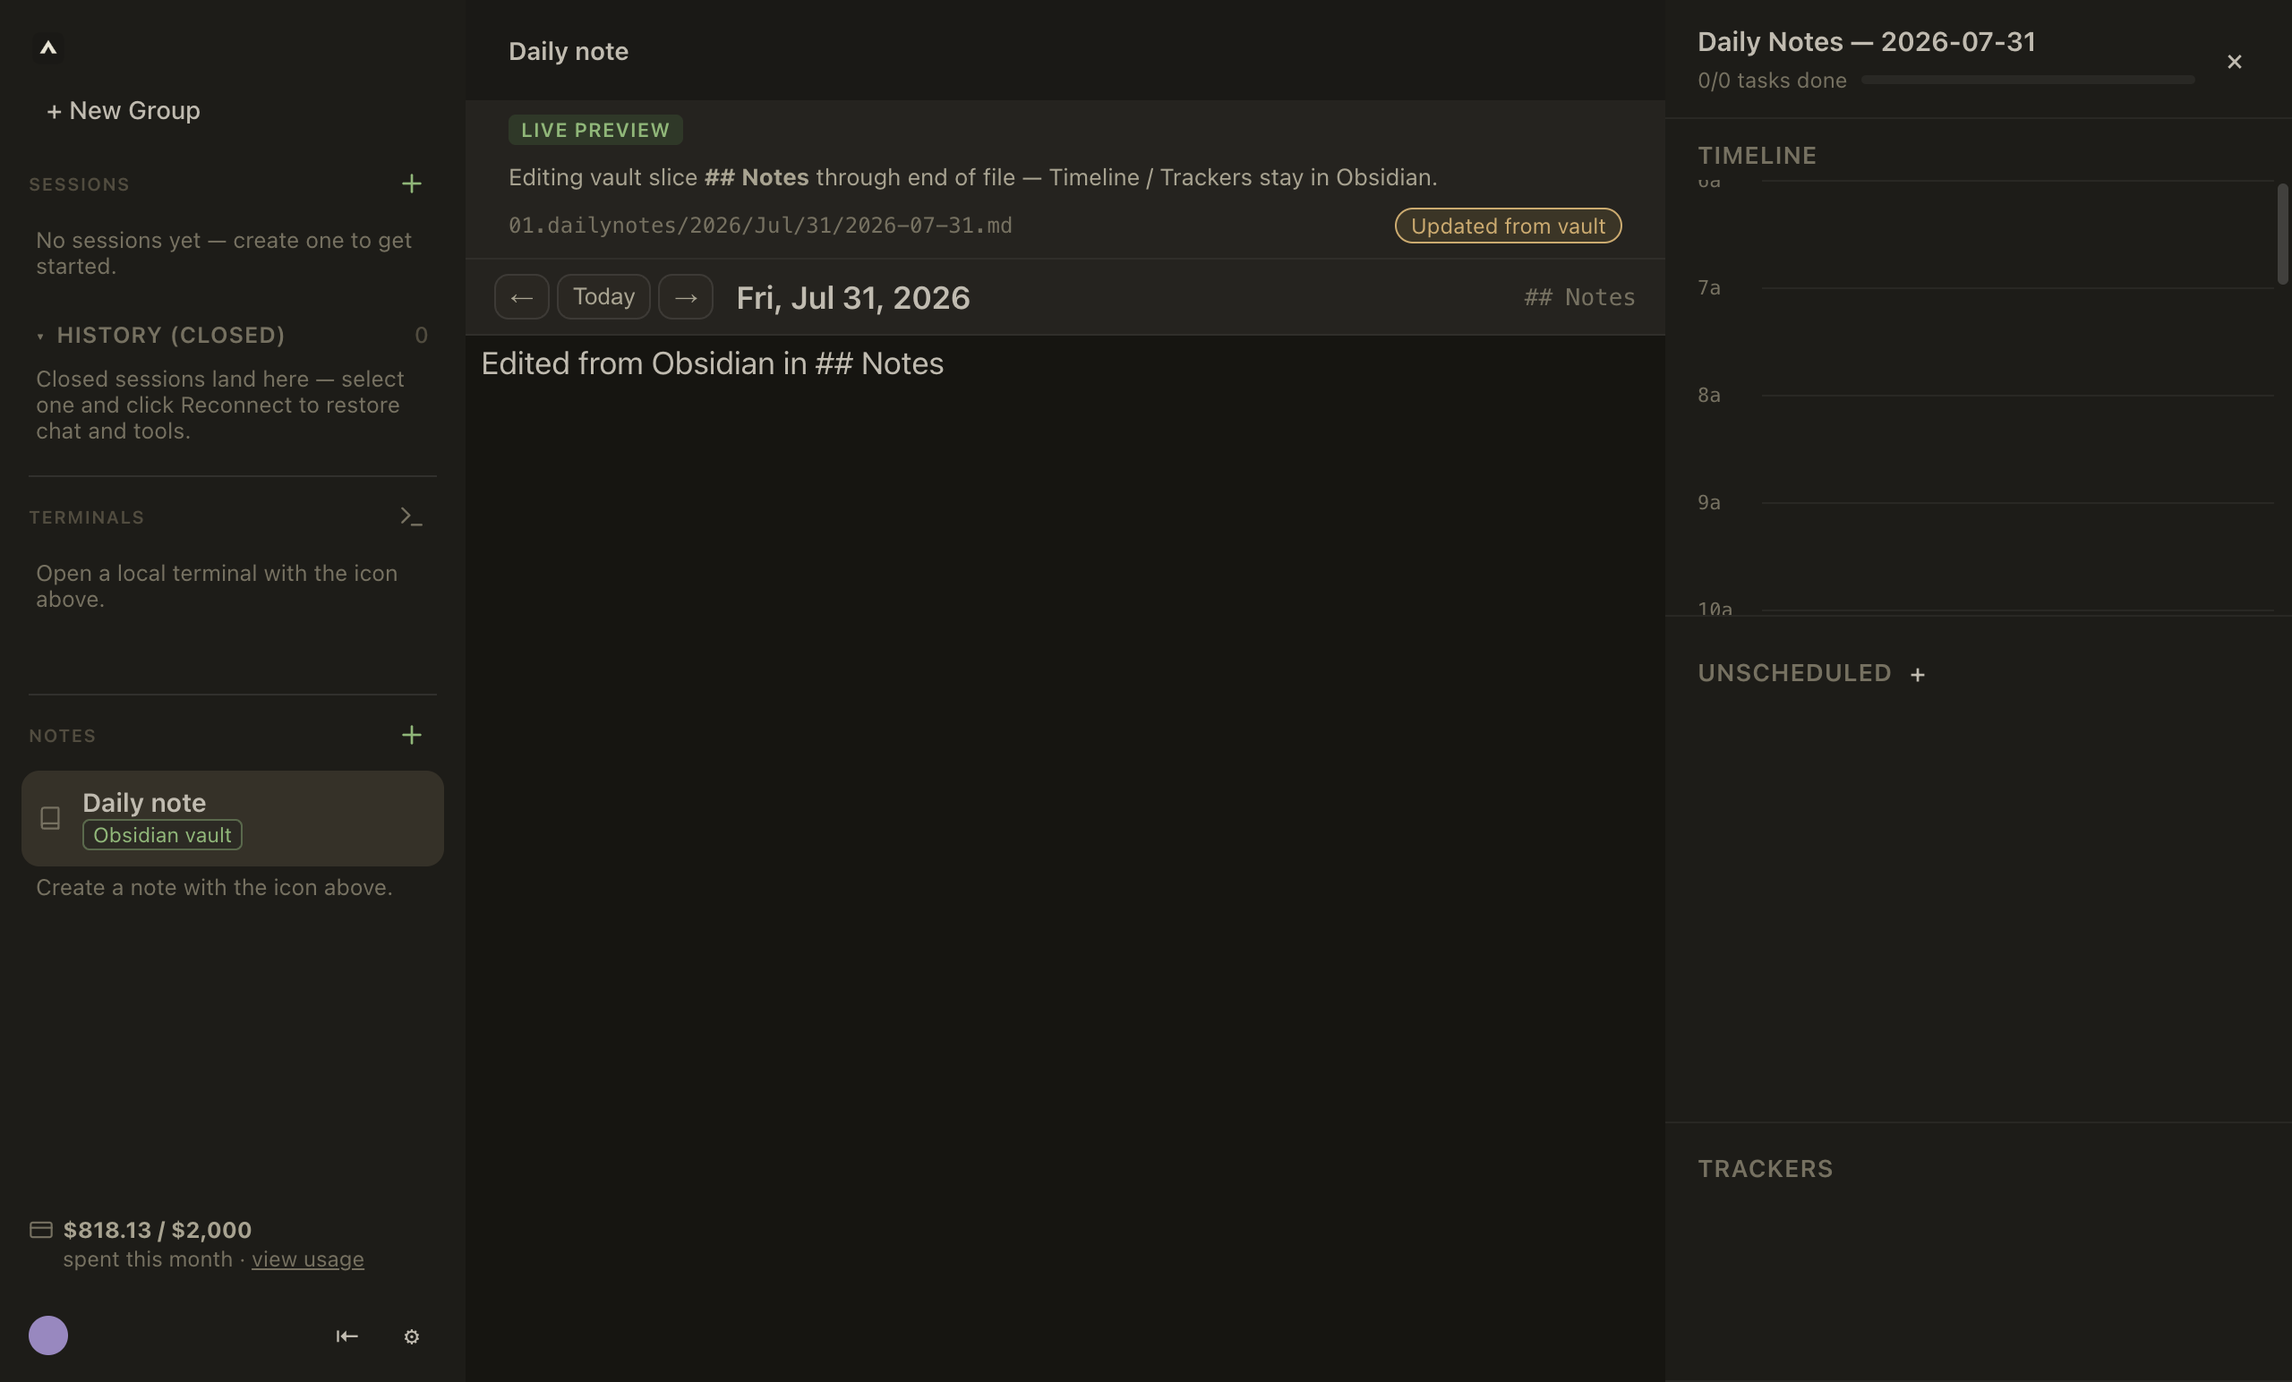
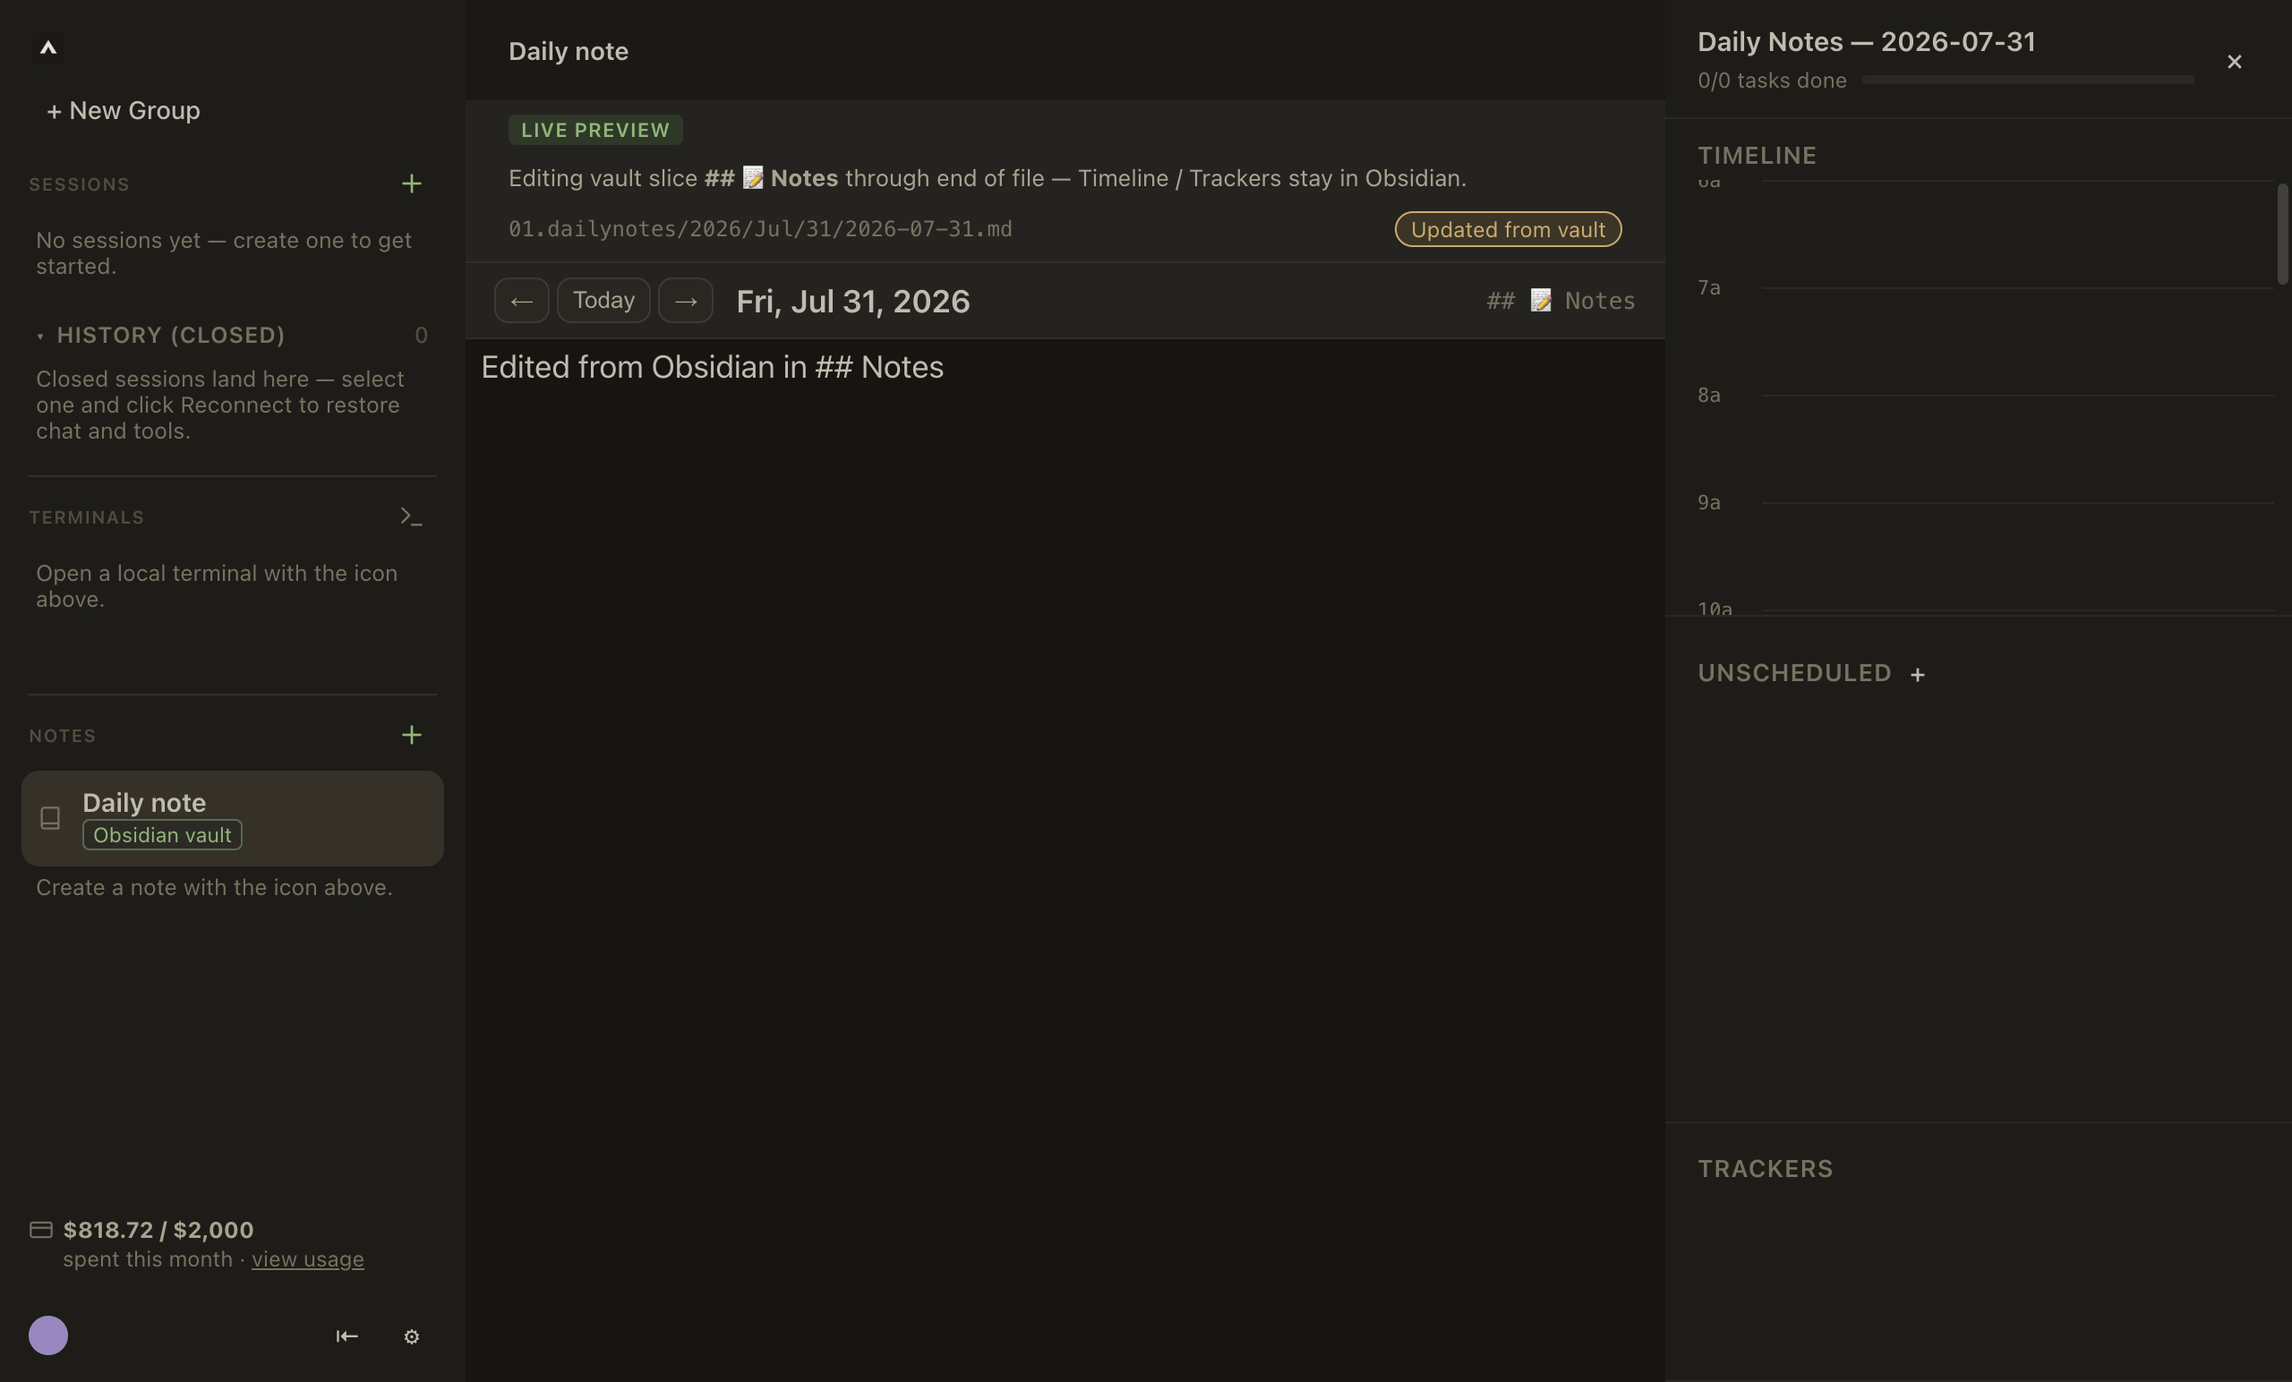
Harden Daily note vault sync: preserve heading and editing focus.
Keep the vault Notes heading line (e.g. ## 📝 Notes) on merge instead of rewriting plain ## Notes; skip self-write change events and avoid remounting while the user is typing.

Changed region(s): [[0.2188, 0.1244, 0.7188, 0.2798], [0.0625, 0.8705, 0.125, 0.9016]]

diff --git a/src/renderer/src/hooks/useDailyNoteNotesSlice.ts b/src/renderer/src/hooks/useDailyNoteNotesSlice.ts
@@ -13,6 +13,14 @@ function shiftDateKey(key: string, deltaDays: number): string {
   return `${yy}-${mm}-${dd}`
 }
 
+function normalizeNotesBody(body: string): string {
+  return body.replace(/\r\n/g, '\n').replace(/\s+$/, '')
+}
+
+function notesBodiesEquivalent(a: string, b: string): boolean {
+  return normalizeNotesBody(a) === normalizeNotesBody(b)
+}
+
 export function formatDailyNoteLabel(dateKey: string): string {
   const [y, m, d] = dateKey.split('-').map(Number)
   return new Date(y, m - 1, d).toLocaleDateString(undefined, {
@@ -30,6 +38,7 @@ export interface UseDailyNoteNotesSliceResult {
   setViewDate: (date: string) => void
   notesBody: string
   vaultRelativePath: string
+  notesSectionHeading: string
   loading: boolean
   vaultConfigured: boolean
   syncState: 'synced' | 'saving' | 'external'
@@ -44,6 +53,7 @@ export function useDailyNoteNotesSlice(initialDate: string): UseDailyNoteNotesSl
   const [viewDate, setViewDate] = useState(initialDate)
   const [notesBody, setNotesBody] = useState('')
   const [vaultRelativePath, setVaultRelativePath] = useState('')
+  const [notesSectionHeading, setNotesSectionHeading] = useState('## 📝 Notes')
   const [loading, setLoading] = useState(true)
   const [vaultConfigured, setVaultConfigured] = useState(true)
   const [syncState, setSyncState] = useState<'synced' | 'saving' | 'external'>('synced')
@@ -51,7 +61,9 @@ export function useDailyNoteNotesSlice(initialDate: string): UseDailyNoteNotesSl
   const [editorMountKey, setEditorMountKey] = useState(0)
 
   const notesBodyRef = useRef('')
+  const lastWrittenNotesBodyRef = useRef<string | null>(null)
   const writeTimerRef = useRef<ReturnType<typeof setTimeout> | null>(null)
+  const writeInFlightRef = useRef(false)
   const viewDateRef = useRef(viewDate)
   viewDateRef.current = viewDate
   notesBodyRef.current = notesBody
@@ -59,14 +71,40 @@ export function useDailyNoteNotesSlice(initialDate: string): UseDailyNoteNotesSl
   const applySlice = useCallback((result: DailyNoteNotesSliceResult, opts?: { remountEditor?: boolean }) => {
     setNotesBody(result.notesBody)
     notesBodyRef.current = result.notesBody
+    lastWrittenNotesBodyRef.current = result.notesBody
     setVaultRelativePath(result.vaultRelativePath)
+    setNotesSectionHeading(result.notesSectionHeading)
     setCreatedBanner(result.created)
     setSyncState('synced')
     if (opts?.remountEditor) setEditorMountKey((k) => k + 1)
   }, [])
 
+  const reconcileVaultSlice = useCallback(
+    (result: DailyNoteNotesSliceResult): void => {
+      const local = notesBodyRef.current
+      const lastWritten = lastWrittenNotesBodyRef.current
+
+      if (lastWritten !== null && !notesBodiesEquivalent(local, lastWritten)) {
+        // Local edits not yet on disk — never stomp or remount over the caret.
+        return
+      }
+
+      if (notesBodiesEquivalent(result.notesBody, local)) {
+        notesBodyRef.current = result.notesBody
+        lastWrittenNotesBodyRef.current = result.notesBody
+        setSyncState('synced')
+        return
+      }
+
+      applySlice(result, { remountEditor: true })
+      setSyncState('external')
+    },
+    [applySlice]
+  )
+
   useEffect(() => {
     setEditorMountKey(0)
+    lastWrittenNotesBodyRef.current = null
   }, [viewDate])
 
   const loadSlice = useCallback(async (date: string, createIfMissing: boolean) => {
@@ -89,36 +127,31 @@ export function useDailyNoteNotesSlice(initialDate: string): UseDailyNoteNotesSl
 
   useEffect(() => {
     let cancelled = false
+
+    const vaultSyncBlocked = (): boolean =>
+      writeTimerRef.current !== null || writeInFlightRef.current
+
     void loadSlice(viewDate, true)
 
     void window.atelier.watchDailyNote(viewDate).catch(() => {})
     const unsub = window.atelier.onDailyNoteChanged(() => {
-      if (cancelled) return
-      if (writeTimerRef.current) {
-        clearTimeout(writeTimerRef.current)
-        writeTimerRef.current = null
-      }
+      if (cancelled || vaultSyncBlocked()) return
       void window.atelier
         .readDailyNoteNotesSlice(viewDateRef.current, false)
         .then((result) => {
-          if (cancelled) return
-          const sameAsLocal = result.notesBody === notesBodyRef.current
-          applySlice(result, { remountEditor: !sameAsLocal })
-          if (!sameAsLocal) setSyncState('external')
+          if (cancelled || vaultSyncBlocked()) return
+          reconcileVaultSlice(result)
         })
         .catch(() => {})
     })
 
     const onFocus = (): void => {
-      if (cancelled || writeTimerRef.current) return
+      if (cancelled || vaultSyncBlocked()) return
       void window.atelier
         .readDailyNoteNotesSlice(viewDateRef.current, false)
         .then((result) => {
-          if (cancelled) return
-          if (result.notesBody !== notesBodyRef.current) {
-            applySlice(result, { remountEditor: true })
-            setSyncState('external')
-          }
+          if (cancelled || vaultSyncBlocked()) return
+          reconcileVaultSlice(result)
         })
         .catch(() => {})
     }
@@ -131,15 +164,23 @@ export function useDailyNoteNotesSlice(initialDate: string): UseDailyNoteNotesSl
       window.removeEventListener('focus', onFocus)
       if (writeTimerRef.current) clearTimeout(writeTimerRef.current)
     }
-  }, [viewDate, loadSlice, applySlice])
+  }, [viewDate, loadSlice, applySlice, reconcileVaultSlice])
 
   const scheduleWrite = useCallback((date: string, body: string) => {
     if (writeTimerRef.current) clearTimeout(writeTimerRef.current)
     setSyncState('saving')
     writeTimerRef.current = setTimeout(() => {
-      void window.atelier.writeDailyNoteNotesSlice(date, body).then(() => {
-        setSyncState('synced')
-      })
+      writeTimerRef.current = null
+      writeInFlightRef.current = true
+      void window.atelier
+        .writeDailyNoteNotesSlice(date, body)
+        .then(() => {
+          lastWrittenNotesBodyRef.current = body
+          setSyncState('synced')
+        })
+        .finally(() => {
+          writeInFlightRef.current = false
+        })
     }, WRITE_DEBOUNCE_MS)
   }, [])
 
@@ -165,6 +206,7 @@ export function useDailyNoteNotesSlice(initialDate: string): UseDailyNoteNotesSl
     setViewDate,
     notesBody,
     vaultRelativePath,
+    notesSectionHeading,
     loading,
     vaultConfigured,
     syncState,

diff --git a/src/main/daily-note-io.ts b/src/main/daily-note-io.ts
@@ -211,26 +211,35 @@ function detectSection(line: string): SectionKind | null {
 
 const NOTES_SECTION_HEADING_RE = /^##\s+.*Notes/i
 
-/** Lines in `raw.afterTasks` before the `## Notes` heading (Retro, Claude Log, etc.). */
-export function extractNotesBodyFromAfterTasks(afterTasks: string[]): { prefixBeforeNotes: string[]; notesBody: string } {
+/** Default when the vault file has no Notes heading yet (matches vault template). */
+export const DEFAULT_NOTES_SECTION_HEADING = '## 📝 Notes'
+
+/** Lines in `raw.afterTasks` before the Notes heading (Retro, Claude Log, etc.). */
+export function extractNotesBodyFromAfterTasks(afterTasks: string[]): {
+  prefixBeforeNotes: string[]
+  notesBody: string
+  notesHeadingLine: string | null
+} {
   const idx = afterTasks.findIndex((line) => NOTES_SECTION_HEADING_RE.test(line.trim()))
   if (idx === -1) {
-    return { prefixBeforeNotes: [...afterTasks], notesBody: '' }
+    return { prefixBeforeNotes: [...afterTasks], notesBody: '', notesHeadingLine: null }
   }
+  const notesHeadingLine = afterTasks[idx]!.trimEnd()
   const rest = afterTasks.slice(idx + 1)
   let start = 0
   while (start < rest.length && rest[start]!.trim() === '') start++
   const notesBody = rest.slice(start).join('\n').replace(/\n$/, '')
-  return { prefixBeforeNotes: afterTasks.slice(0, idx), notesBody }
+  return { prefixBeforeNotes: afterTasks.slice(0, idx), notesBody, notesHeadingLine }
 }
 
-/** Replace or append the `## Notes` block inside `raw.afterTasks`, preserving earlier after-task sections. */
+/** Replace or append the Notes block inside `raw.afterTasks`, preserving heading emoji/text from the file. */
 export function mergeNotesBodyIntoAfterTasks(afterTasks: string[], notesBody: string): string[] {
-  const { prefixBeforeNotes } = extractNotesBodyFromAfterTasks(afterTasks)
+  const { prefixBeforeNotes, notesHeadingLine } = extractNotesBodyFromAfterTasks(afterTasks)
   const prefix = [...prefixBeforeNotes]
   while (prefix.length > 0 && prefix[prefix.length - 1]!.trim() === '') prefix.pop()
 
-  const block: string[] = ['## Notes', '']
+  const heading = notesHeadingLine ?? DEFAULT_NOTES_SECTION_HEADING
+  const block: string[] = [heading, '']
   const normalized = notesBody.replace(/\r\n/g, '\n').replace(/\s+$/, '')
   if (normalized) block.push(...normalized.split('\n'))
 

diff --git a/e2e/daily-note-notes-editor.spec.ts b/e2e/daily-note-notes-editor.spec.ts
@@ -26,7 +26,7 @@ type: daily
 
 > [!invisible] Trackers
 
-## Notes
+## 📝 Notes
 
 ${notesBody}
 `
@@ -83,7 +83,8 @@ test.describe('Daily note Notes slice editor (sidebar main panel)', () => {
       .poll(() => readFileSync(notePath, 'utf-8'), { timeout: 15_000 })
       .toContain(UNIQUE_LINE)
 
-    await expect(readFileSync(notePath, 'utf-8')).toMatch(/## Notes[\s\S]*Seed body before edit/)
+    await expect(readFileSync(notePath, 'utf-8')).toMatch(/## 📝 Notes[\s\S]*Seed body before edit/)
+    await expect(readFileSync(notePath, 'utf-8')).not.toMatch(/^## Notes$/m)
     await expect(page.getByTestId('daily-note-sync-chip')).toContainText(/Synced|Saving/, { timeout: 10_000 })
 
     await page.screenshot({ path: join(artifactsDir, 'daily-note-notes-editor-slice.png') })
@@ -106,5 +107,41 @@ test.describe('Daily note Notes slice editor (sidebar main panel)', () => {
     await expect(page.getByTestId('daily-note-sync-chip')).toHaveText('Updated from vault', { timeout: 10_000 })
 
     await page.screenshot({ path: join(artifactsDir, 'daily-note-notes-editor-external-sync.png') })
+  })
+
+  test('local typing is not interrupted by self-write vault sync', async () => {
+    writeFileSync(notePath, fixtureWithNotesBody('Seed body before edit.'), 'utf-8')
+
+    await page.getByTestId('daily-note-row').click()
+    const editor = page.getByTestId('daily-note-editor')
+    await expect(editor).toBeVisible({ timeout: 10_000 })
+    await editor.click()
+
+    for (let i = 0; i < 8; i++) {
+      await page.keyboard.type('a')
+      await page.waitForTimeout(80)
+    }
+
+    await expect
+      .poll(
+        () =>
+          page.evaluate(
+            () => document.activeElement?.closest('[data-testid="daily-note-editor"]') != null
+          ),
+        { timeout: 5_000 }
+      )
+      .toBe(true)
+
+    await page.waitForTimeout(900)
+    await expect(page.getByTestId('daily-note-sync-chip')).not.toHaveText('Updated from vault')
+    await expect
+      .poll(
+        () =>
+          page.evaluate(
+            () => document.activeElement?.closest('[data-testid="daily-note-editor"]') != null
+          ),
+        { timeout: 2_000 }
+      )
+      .toBe(true)
   })
 })

diff --git a/src/main/daily-notes-handlers.ts b/src/main/daily-notes-handlers.ts
@@ -25,7 +25,8 @@ import {
   generateNewNote,
   getTaskIds,
   extractNotesBodyFromAfterTasks,
-  mergeNotesBodyIntoAfterTasks
+  mergeNotesBodyIntoAfterTasks,
+  DEFAULT_NOTES_SECTION_HEADING
 } from './daily-note-io'
 import { logger } from './logger'
 import { loadConfig } from './config'
@@ -342,7 +343,7 @@ async function readNotesSliceForDate(
 
   if (!existsSync(path)) {
     if (!createIfMissing) {
-      return { exists: false, notesBody: '', vaultRelativePath: rel, created: false }
+      return { exists: false, notesBody: '', vaultRelativePath: rel, created: false, notesSectionHeading: DEFAULT_NOTES_SECTION_HEADING }
     }
     await ensureNoteExists(date, settings)
     created = true
@@ -352,9 +353,15 @@ async function readNotesSliceForDate(
   const { note, raw, mintedIds } = parseDailyNote(content, date)
   persistMintedGids(path, note, raw, mintedIds)
   recordKnownIds(path, getTaskIds(note))
-  const { notesBody } = extractNotesBodyFromAfterTasks(raw.afterTasks)
+  const { notesBody, notesHeadingLine } = extractNotesBodyFromAfterTasks(raw.afterTasks)
   logger.info('daily-note read notes slice', { path, created, bodyLength: notesBody.length })
-  return { exists: true, notesBody, vaultRelativePath: rel, created }
+  return {
+    exists: true,
+    notesBody,
+    vaultRelativePath: rel,
+    created,
+    notesSectionHeading: notesHeadingLine ?? DEFAULT_NOTES_SECTION_HEADING
+  }
 }
 
 export function registerDailyNoteHandlers(getMainWindow: () => BrowserWindow | null): void {
@@ -414,7 +421,6 @@ export function registerDailyNoteHandlers(getMainWindow: () => BrowserWindow | n
     renameSync(tmpPath, path)
     recordWrittenContent(path, serialized)
     recordKnownIds(path, getTaskIds(parsed.note))
-    notifyDailyNoteChanged(getMainWindow, parsed.note)
     logger.info('daily-note write notes slice committed', { path, bodyLength: notesBody.length })
     return { ok: true as const }
   })

diff --git a/src/renderer/src/components/panels/DailyNoteEditorPanel.tsx b/src/renderer/src/components/panels/DailyNoteEditorPanel.tsx
@@ -83,7 +83,7 @@ export default function DailyNoteEditorPanel({
       <div className="daily-note-scope-bar">
         <span className="daily-note-live-badge">Live preview</span>
         <span>
-          Editing vault slice <strong>## Notes</strong> through end of file — Timeline / Trackers stay in Obsidian.
+          Editing vault slice <strong>{slice.notesSectionHeading}</strong> through end of file — Timeline / Trackers stay in Obsidian.
         </span>
         {slice.createdBanner && (
           <span className="daily-note-created-banner" data-testid="daily-note-created-banner">
@@ -116,7 +116,9 @@ export default function DailyNoteEditorPanel({
             {formatDailyNoteLabel(slice.viewDate)}
           </span>
         </div>
-        <span className="daily-note-section-heading">## Notes</span>
+        <span className="daily-note-section-heading" data-testid="daily-note-section-heading">
+          {slice.notesSectionHeading}
+        </span>
       </div>
 
       <div className="daily-note-atomic-host" data-testid="daily-note-editor" style={{ flex: 1, minHeight: 0 }}>

diff --git a/src/shared/daily-note-types.ts b/src/shared/daily-note-types.ts
@@ -68,8 +68,10 @@ export interface ReadDailyNoteResult {
 /** Renderer-facing result for the Notes-section-only editor (## Notes → EOF). */
 export interface DailyNoteNotesSliceResult {
   exists: boolean
-  /** Markdown body under the `## Notes` heading (heading line itself excluded). */
+  /** Markdown body under the Notes heading (heading line itself excluded). */
   notesBody: string
+  /** Exact `## … Notes` heading line from the vault file (emoji preserved). */
+  notesSectionHeading: string
   /** Vault-relative path to the daily note file. */
   vaultRelativePath: string
   /** True when this call created the note from the vault template. */
